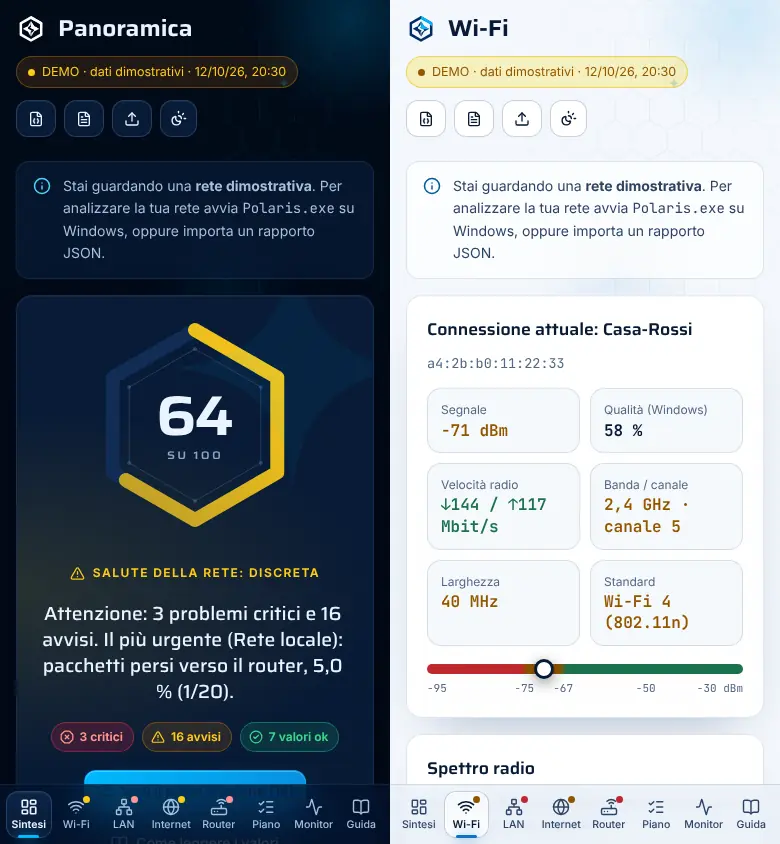
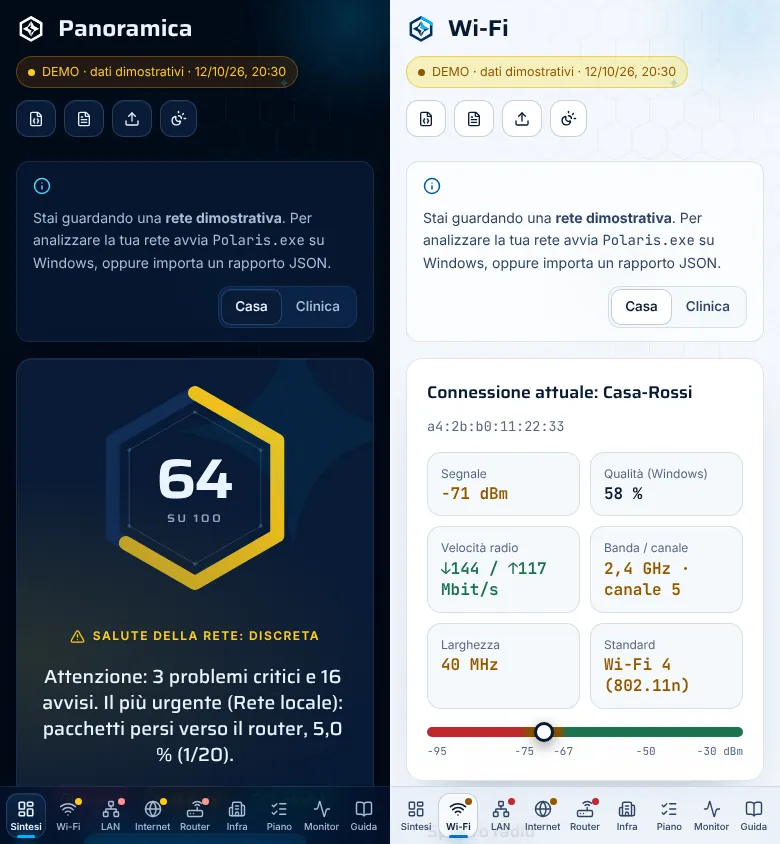
STARNET Polaris 0.4.0: documentazione, verifiche e collaudo delle nuove API
- versione 0.4.0 in package.json, risorse dell'exe e script di build
- README: reti complesse e strutture sanitarie, guide di rete, regole di
  sicurezza di inventario e verifiche; immagini aggiornate e nuove
  (infrastruttura, AP della rete, verifiche, autovalutazione, guide)
- ARCHITETTURA: nuove analisi del motore, file dell'interfaccia, sonde
  dell'agente (roaming, dominio e DHCP, inventario, verifiche) e API
- VERIFICHE: sezione 8 con test, prove dell'interfaccia (aspetto, axe-core,
  percorso interattivo, fluidità), exe sotto Wine nei tre modi con le
  nuove API, difetti corretti e avvertenze sulle guide
- LEGGIMI dello zip: nuove funzioni, tasti 1-9, regole di sicurezza
- CI su Windows reale: suffisso DNS, server DHCP e dominio nel registro;
  inventario senza conferma rifiutato e una sola verifica verso il gateway
  (nessuna scansione della rete della CI)
- AP della rete: il conteggio delle radio esclude quelle con protezione
  diversa, indicate a parte

Claude-Session: https://claude.ai/code/session_01F7rChLFTzHGSKGbwjwYayv

diff --git a/core/src/ui/views.tsx b/core/src/ui/views.tsx
@@ -343,7 +343,10 @@ function OwnApsCard({ nets, me, ssid }: { nets: Bss[]; me?: Bss; ssid: string })
     <m.section variants={rise} className="card" style={{ marginTop: 16 }}>
       <div className="card-head">
         <h2>Access point della rete "{ssid}"</h2>
-        <span className="sub">almeno {aps} AP · {radios.length} radio ricevute da qui</span>
+        <span className="sub">
+          almeno {aps} AP · {radios.filter((b) => !odd(b)).length} radio ricevute da qui
+          {radios.some(odd) ? ` · ${radios.filter(odd).length} con protezione diversa` : ''}
+        </span>
       </div>
       <TableWrap label="Access point della tua rete">
         <table>

diff --git a/docs/VERIFICHE.md b/docs/VERIFICHE.md
@@ -1,23 +1,27 @@
 # Verifiche
 
-Cosa è stato verificato, come, e cosa resta da provare. Versione attuale: 0.3.0 (13 ottobre 2026), con il marchio STARNET e il
-nome STARNET Polaris (sezione 7). Fino alla versione 0.2.0 il programma si chiamava LANterna: le sezioni che descrivono prove
-precedenti riportano i nomi di allora.
+Cosa è stato verificato, come, e cosa resta da provare. Versione attuale: 0.4.0 (17 ottobre 2026), con le guide di rete e gli
+strumenti per le reti complesse e le strutture sanitarie (sezione 8). Fino alla versione 0.2.0 il programma si chiamava LANterna:
+le sezioni che descrivono prove precedenti riportano i nomi di allora.
 
 ## 1. Test automatici
 
 | Parte | Test | Cosa coprono |
 | --- | --- | --- |
 | Motore di analisi (`core/`, vitest) | 41 | conversioni frequenza/canale e spettro; soglie di ogni metrica ai bordi (es. -67/-68/-75/-76 dBm); diagnosi incrociate (latenza in casa o dell'operatore, router che ignora i ping o non risponde affatto ma inoltra il traffico, perdite misurate via TCP, traceroute con nodo lento o percorso parziale, ping bloccati ma web funzionante); sicurezza (aperta, WEP, TKIP, WPA3, PMF, WPS); piano d'azione senza duplicati e con i critici in testa; rapporto testuale; **il bundle `engine.js` gira come script ES2015 senza moduli né Intl** (come in goja) e dà lo stesso risultato |
-| Decoder 802.11 (`windows/internal/ie`) | 16 | beacon costruiti **byte per byte**: RSN (WPA2, WPA3, transizione, OWE, Enterprise, valori impliciti), WPA in modalità mista con TKIP, WEP dal bit Privacy, WPS, BSS Load, Country, HT 40 MHz sopra/sotto, VHT 80/160 (codifica moderna e deprecata), HE 6 GHz con campi opzionali, EHT 320 MHz, elementi troncati |
-| Strutture wlanapi (`windows/internal/wlan`) | 5 | `WLAN_BSS_LIST`, `WLAN_CONNECTION_ATTRIBUTES`, `WLAN_INTERFACE_INFO_LIST` costruite byte per byte: RSSI con segno, frequenza in kHz, velocità in unità da 500 kbit/s, offset IE relativo alla voce e fuori dal buffer, conteggi incoerenti, descrizioni UTF-16 |
+| Reti complesse (`core/test/complex.test.ts`) | 21 | AP della rete (un router dual band non conta due volte), AP propri sullo stesso canale con la soglia di -80 dBm, sticky client e giudizio sul segnale che punta all'AP scelto, roaming (802.1X senza 802.11r, funzioni diverse tra AP, Mobility Domain diversi), AP gemello aperto e varianti della stessa protezione, reti delle stesse radio escluse dai vicini e dal consiglio dei canali; dominio e suffisso DNS (anche suffissi domestici e DNS pubblici), server DHCP, sottorete ampia, MAC condivisi; inventario, segmentazione, servizi critici, autovalutazione con le azioni nel piano; rete dimostrativa Clinica; rapporto con i dettagli entro 90 colonne |
+| Guide (`core/test/guides.test.ts`) | 17 | identificativi e capitoli, collegamenti interni, misure e azioni citate esistenti, **ogni misura spiegata in almeno una guida**, markup chiuso, tabelle coerenti, glossario senza doppioni, argomenti sanitari presenti, ricerca |
+| Decoder 802.11 (`windows/internal/ie`) | 20 | beacon costruiti **byte per byte**: RSN (WPA2, WPA3, transizione, OWE, Enterprise, valori impliciti), WPA in modalità mista con TKIP, WEP dal bit Privacy, WPS, BSS Load, Country, HT 40 MHz sopra/sotto, VHT 80/160 (codifica moderna e deprecata), HE 6 GHz con campi opzionali, EHT 320 MHz, elementi troncati; roaming da Mobility Domain, RM Enabled Capabilities ed Extended Capabilities (anche troncato) e 802.11r dedotto dagli AKM FT |
+| Strutture wlanapi (`windows/internal/wlan`) | 6 | `WLAN_BSS_LIST`, `WLAN_CONNECTION_ATTRIBUTES`, `WLAN_INTERFACE_INFO_LIST` costruite byte per byte: RSSI con segno, frequenza in kHz, velocità in unità da 500 kbit/s, offset IE relativo alla voce e fuori dal buffer, conteggi incoerenti, descrizioni UTF-16 |
 | Parser netsh (`windows/internal/netsh`) | 4 | output inglese e italiano, anche con lettere accentate storpiate dalla code page CP850; messaggio di Windows 11 sul permesso di posizione |
 | Sonde di rete (`windows/internal/probe`) | 12 | proxy di sistema di Windows (proxy unico o per schema, eccezioni `<local>` e con caratteri jolly); pacchetto DNS confrontato byte per byte, server DNS finto (risposta, REFUSED, SERVFAIL, timeout); router UPnP finto completo (SSDP, descrizione XML, SOAP `GetExternalIPAddress`); filtro degli URL SSDP (solo LAN privata); porte; titolo del pannello; HTTPS |
 | Orchestrazione (`windows/internal/collect`) | 8 | analisi completa su piattaforma simulata; traceroute; MTU con ricerca binaria; riserva TCP quando l'ICMP non funziona; interruzione rapida se l'host non risponde; assenza di gateway; PC senza scheda Wi-Fi; scelta del metodo nel monitor |
-| Server locale (`windows/internal/server`) | 4 | rifiuto di Host estranei, POST da altre origini e cross-site; CSP; tipi dei file dell'interfaccia (font `woff2`, favicon `ico`, CSS con `nosniff`); ciclo avvio, avanzamento e risultato; ping del monitor; avvii concorrenti |
+| Server locale (`windows/internal/server`) | 7 | rifiuto di Host estranei, POST da altre origini e cross-site; CSP; tipi dei file dell'interfaccia (font `woff2`, favicon `ico`, CSS con `nosniff`); ciclo avvio, avanzamento e risultato; ping del monitor; avvii concorrenti; inventario (conferma obbligatoria, solo JSON, rete non adatta, già in corso, non disponibile) e verifiche |
+| Infrastruttura (`windows/internal/infra`) | 9 | sottorete da esaminare (/22 intera, ripiego sul /24, reti pubbliche e /31 rifiutate), reti private e MAC casuali, inventario con limite di concorrenza, dispositivi visti solo tramite ARP e nomi, interruzione, verifiche (porta aperta, chiusa o filtrata, ping, nomi risolti preferendo IPv4, destinazioni pubbliche rifiutate), validazione, richiesta e risposta NetBIOS byte per byte |
 | Motore in goja (`windows/internal/engine`) | 3 | il vero `engine.js` eseguito nell'interprete dell'exe: rapporto e analisi, formattazione dei numeri con la virgola |
 
-In totale 41 test TypeScript e 52 test Go, questi ultimi eseguiti anche con il race detector.
+In totale 79 test TypeScript e 69 test Go, questi ultimi eseguiti anche con il race detector. Il conteggio del motore di analisi
+(41) comprende i test di tutte le versioni precedenti.
 
 ## 2. Strutture di Windows confrontate con gli header ufficiali
 
@@ -135,6 +139,9 @@ Difetti trovati con queste prove e corretti prima della consegna:
 | Fluidità con una GPU vera | il container e la CI non hanno GPU | misure in rendering software (caso peggiore) e grafica leggera automatica | animazioni a 60 fps anche aprendo le schede; con desktop remoto deve attivarsi la grafica leggera |
 | Permesso di posizione (Windows 11 24H2+) | serve Windows 11 con scheda Wi-Fi | messaggio di Windows riconosciuto nei test; errore `ACCESS_DENIED` tradotto in istruzioni | con posizione disattivata deve comparire la spiegazione, attivandola le reti |
 | UPnP e porte di un router reale | nessun router domestico nel container | router UPnP simulato nei test | modello del router, porte aperte, IP pubblico |
+| Inventario di una rete privata vera | la rete del container è 192.0.2.0/24, che non è privata; la rete della CI non va scansionata | primitive simulate nei test (ritmo, concorrenza, ARP, nomi); sotto Wine verificato il rifiuto della rete non privata; in CI il rifiuto senza conferma | tempi su una /24, dispositivi visti solo tramite ARP, nomi NetBIOS di PC e stampanti |
+| Roaming 802.11k/v/r da AP veri | nessuna scheda Wi-Fi | elementi costruiti byte per byte secondo lo standard | funzioni e Mobility Domain degli AP di una rete aziendale; segnalazione dello sticky client camminando |
+| Verifiche verso una rete segmentata | nessuna VLAN né firewall interni qui | esiti simulati nei test; sotto Wine verifiche vere (indirizzo pubblico rifiutato, ping senza risposta) | distinzione tra porta chiusa e filtrata attraverso un firewall reale |
 
 ## 6. Collaudo su Windows reale (CI)
 
@@ -239,3 +246,60 @@ stesso viola, e su mobile il marchio spariva insieme alla barra laterale (ora il
   ora la barra scorre e sugli schermi bassi il logo è più compatto.
 
 ![STARNET Polaris su Windows reale](img/windows-reale.webp)
+
+## 8. Versione 0.4.0: guide di rete, reti complesse e strutture sanitarie
+
+**Cosa è nuovo.** La biblioteca di 48 guide con glossario e centro guide (commit `c0c2fb1`); il motore 1.1.0 con le analisi delle
+reti con più access point e delle reti aziendali e la categoria Infrastruttura; nell'agente il pacchetto `infra` (inventario e
+verifiche su richiesta), la lettura del roaming dai beacon, di dominio, suffisso DNS e server DHCP; nell'interfaccia la sezione
+Infrastruttura, gli AP della rete nella sezione Wi-Fi, il monitor di sessione e la rete dimostrativa Clinica (commit `c6d0887`).
+
+**Interfaccia**, prove in Chromium 141 sulla build di produzione, con entrambe le reti dimostrative:
+
+| Verifica | Esito |
+| --- | --- |
+| Aspetto (9 sezioni × 2 temi × desktop e mobile, reti Casa e Clinica) | nessuno scorrimento orizzontale, nessun elemento invisibile o fuori dal riquadro, nessun errore in console |
+| axe-core 4.11.4, WCAG 2.1 A/AA e buone pratiche (36 combinazioni per rete, con una scheda aperta e una risposta data) | 0 violazioni dopo la correzione sotto |
+| Percorso interattivo (25 controlli) | tasto `6`; pulsante dell'inventario disattivo finché non si conferma l'autorizzazione; barra di avanzamento; filtro; CSV con intestazione e BOM; esempi delle destinazioni; campi vuoti segnalati; indirizzo pubblico "non verificato"; risposte da tastiera con le frecce; giudizio e azione nel piano; JSON esportato con inventario, verifiche e autovalutazione; risposte conservate dopo il ricaricamento; monitor che continua cambiando sezione, con il pallino nella navigazione e il CSV; AP della rete nella demo Clinica |
+| Barra in basso su telefono | nove voci con le etichette a 390 px; sotto 370 px solo le icone (il nome resta per i lettori di schermo); nessuno sbordo a 360 e 320 px |
+| Fluidità senza GPU | 60 fps mediani entrando in Infrastruttura, aprendo un'area dell'autovalutazione, rispondendo, durante l'inventario simulato, aggiungendo una destinazione, nel monitor e nella tabella degli AP; p95 di 33 ms solo all'ingresso del monitor |
+
+**Exe 0.4.0 sotto Wine 9.0, nei tre modi:**
+- **rapporto**: analisi in 14,1 s;
+- **server**, nuove API con l'agente vero:
+  - `415` senza corpo JSON, `400` senza conferma, `422` sulla rete del container ("192.0.2.2 non è un indirizzo privato");
+  - `403` con `Origin` o `Host` estranei, `400` con una destinazione vuota;
+  - verifiche in 1,8 s: indirizzo pubblico e `localhost` non verificati, ping senza risposta "isolato come previsto";
+- **interfaccia servita dall'exe** (Chromium):
+  - il rifiuto della rete non privata compare come avviso;
+  - le verifiche danno gli esiti veri e i giudizi;
+  - il monitor misura con ping veri, senza l'avviso della demo;
+  - in console resta solo la riga del browser sulla risposta `422`, attesa;
+- **finestra senza WebView2**: messaggio con l'indirizzo dell'interfaccia su una porta libera, chiusura con OK.
+
+**Windows reale (CI).** Il commit `c6d0887` ha superato test, build e collaudo su Windows reale. Al collaudo si aggiunge un
+controllo prudente delle nuove API: un inventario senza conferma deve essere rifiutato (nessuna scansione della rete della CI) e
+una sola verifica verso il gateway deve dare un esito.
+
+**Difetti trovati e corretti durante il lavoro:**
+1. Un router dual band rischiava di contare come due AP: il conteggio ora è per banda.
+2. Le reti ospiti e dispositivi trasmesse dallo stesso AP risultavano "reti vicine" sul proprio canale e falsavano il consiglio
+   dei canali.
+3. Una radio estranea con il nome della rete entrava nel conteggio degli AP e nelle coppie sullo stesso canale.
+4. Con più AP i canali da 40 MHz, scelta corretta, erano segnalati come limite di velocità.
+5. Con lo sticky client il giudizio sul segnale suggeriva di avvicinarsi al router invece di correggere il roaming.
+6. Una rete WPA2-Enterprise era descritta come protetta "da una password lunga".
+7. La tabella ARP scartava gli indirizzi che finiscono in .255, validi nelle sottoreti /22 e /23.
+8. Lo stato salvato nel browser non seguiva il cambio di chiave: passando da una rete dimostrativa all'altra restavano le
+   risposte della prima.
+9. Un elenco vuoto delle destinazioni aveva il ruolo di elenco senza voci (axe-core).
+10. Testi: "1 sono stati visti", parentesi doppie nelle destinazioni, puntini seguiti dal punto.
+
+**Avvertenze.** Le guide e le domande dell'autovalutazione sono state scritte senza consultare le fonti primarie durante questo
+lavoro: articoli, termini di notifica e riferimenti normativi (GDPR, NIS2, dispositivi medicali) sono una sintesi da verificare sui
+testi ufficiali e non costituiscono consulenza legale. Inventario, verifiche e lettura del roaming sono collaudati con dati simulati
+e sotto Wine, non ancora su una rete aziendale vera (sezione 5).
+
+| AP della rete | Esiti delle verifiche | Autovalutazione |
+| --- | --- | --- |
+| ![AP della rete](img/ap-rete.webp) | ![Verifiche](img/verifiche.webp) | ![Autovalutazione](img/autovalutazione.webp) |

diff --git a/docs/ARCHITETTURA.md b/docs/ARCHITETTURA.md
@@ -9,10 +9,13 @@ nome, che non compare più all'utente.
             │    types.ts       contratto dati Scan → Analysis                            │
             │    kb/metrics.ts  cos'è, come si legge (soglie), perché conta, limiti      │
             │    kb/actions.ts  catalogo azioni correttive condiviso                      │
+            │    kb/assessment.ts  autovalutazione: aree, domande, punteggi               │
             │    analyze.ts     diagnosi, punteggi, piano d'azione                        │
-            │    wifi.ts        canali, spettro, interferenza, canale consigliato         │
+            │    wifi.ts        canali, spettro, interferenza, AP della rete              │
             │    report.ts      rapporto testuale                                         │
-            │  ui/       interfaccia React (animazioni, grafici SVG, 8 viste)             │
+            │  guides/   48 guide come dati tipizzati, glossario, ricerca                 │
+            │  demo/     reti dimostrative Casa e Clinica, simulazioni                    │
+            │  ui/       interfaccia React (animazioni, grafici SVG, 9 viste)             │
             └───────────────▲───────────────────────────────▲────────────────────────────┘
                             │ stesso bundle                  │ engine.js (IIFE ES2015)
              interfaccia    │                                │
@@ -25,6 +28,7 @@ nome, che non compare più all'utente.
    │   winapi/  wlanapi, IcmpSendEcho, GetAdaptersAddresses, ARP, firewall   │
    │   wlan/ ie/ netsh/  interpretazione byte per byte, collaudata ovunque   │
    │   probe/   DNS, UPnP/SSDP, porte e pannello del router, HTTPS          │
+   │   infra/   inventario e verifiche su richiesta, ritmo prudente          │
    │   collect/ orchestrazione parallela con avanzamento reale               │
    │   server/  API locale + interfaccia incorporata                         │
    └──────────────────────────────────────────────────────────────────────────┘
@@ -56,7 +60,19 @@ motore lo mostra come "non misurato" invece di inventare un giudizio.
   ordina per gravità, impatto, numero di problemi risolti e facilità.
 - Il consiglio sui canali stima l'interferenza dallo spettro occupato da ogni rete, pesato per potenza e per il carico dichiarato
   (BSS Load). A 2,4 GHz consiglia solo 1, 6 o 11; a 5 GHz preferisce 36-48, poi i blocchi DFS, per ultimo 149-161 (in Italia/UE
-  ammesso solo a bassa potenza).
+  ammesso solo a bassa potenza). Le altre reti trasmesse dalle stesse radio (ospiti, dispositivi: BSSID che differiscono solo
+  nell'ultima cifra o nel primo ottetto) non contano come interferenza.
+- **Reti con più access point.** Gli AP della rete collegata si stimano contando le radio per banda (un router dual band conta
+  uno); le radio con una protezione di famiglia diversa non sono AP della rete ma un possibile AP gemello, segnalato a parte. Il
+  motore controlla AP propri sullo stesso canale che si ricevono entrambi sopra -80 dBm, il PC agganciato a un AP debole quando
+  uno della stessa banda è più forte di almeno 10 dB (il giudizio sul segnale allora punta all'AP scelto, non alla copertura) e
+  il roaming assistito (802.11k/v/r, uniformità tra AP, Mobility Domain).
+- **Reti aziendali.** Un dominio (o un suffisso DNS non domestico con soli DNS interni) cambia i consigli: niente DNS pubblici sul
+  PC, ma il DNS interno da potenziare. Sottoreti da /20 in su sono indicate come probabile rete piatta; lo stesso MAC per più
+  indirizzi è un avviso se riguarda il router.
+- **Infrastruttura.** Inventario, verifiche e autovalutazione entrano nello `Scan` (`infra`) e diventano giudizi di una categoria
+  propria, che conta nel punteggio solo quando ci sono dati: segmentazione violata e servizi critici irraggiungibili sono critici;
+  ogni area dell'autovalutazione ha un punteggio pesato e porta nel piano le azioni mancanti.
 
 ## Interfaccia
 
@@ -93,9 +109,19 @@ Organizzazione di `core/src/ui/`:
   reale di `/api/progress`; ogni sonda è una stella in orbita che, finita, si collega alla precedente formando una costellazione.
 - `charts.tsx`: grafici SVG disegnati alla larghezza reale del contenitore (1 unità = 1 pixel, testi mai deformati), curve monotone
   che non inventano picchi; il monitor scorre in modo continuo invece che a scatti.
+- `guides.tsx` e `diagrams.tsx`: il centro guide (biblioteca, lettore con indice, glossario, riferimento delle soglie, ricerca) e i
+  diagrammi SVG animati all'ingresso nella vista, fermi con "riduci movimento".
+- `infra.tsx`: la sezione Infrastruttura. L'inventario vive a livello di modulo, quindi prosegue anche cambiando pagina; senza
+  agente (demo) inventario e verifiche sono simulati da `demo/simulate.ts` e dichiarati come tali; con un rapporto importato si
+  consultano solo i risultati salvati.
+- `monitor.ts`: la sessione del monitor appartiene all'App e continua fra le sezioni; riepilogo dell'intera sessione (media, 95°
+  percentile, massimo con l'ora, perdite, interruzioni di almeno tre ping consecutivi, picchi oltre 2,5 volte il valore tipico) e
+  CSV per i fogli di calcolo italiani (`;` e virgola decimale).
+- Autovalutazione e destinazioni delle verifiche restano in `localStorage`, separate per contesto (rete, demo); l'App le unisce
+  allo `Scan` prima dell'analisi e delle esportazioni. Il MAC del router di ogni rete è ricordato per segnalare un cambio.
 
-Accessibilità: navigazione completa da tastiera (scorciatoie `1`…`8` e `/`, ignorate mentre si scrive; frecce nei selettori a
-segmenti; collegamento "Vai al contenuto"), ruoli e stati ARIA su schede espandibili, interruttori e caselle, tabelle scorrevoli
+Accessibilità: navigazione completa da tastiera (scorciatoie `1`…`9` e `/`, ignorate mentre si scrive; frecce nei selettori a
+segmenti e nei gruppi di risposte; collegamento "Vai al contenuto"), ruoli e stati ARIA su schede espandibili, interruttori e caselle, tabelle scorrevoli
 raggiungibili con Tab, contrasto WCAG 2.1 AA in entrambi i temi, `prefers-reduced-motion` e `prefers-reduced-transparency`
 rispettati. Le scelte sono state verificate con axe-core: [VERIFICHE.md](VERIFICHE.md).
 
@@ -111,6 +137,10 @@ rispettati. Le scelte sono state verificate con axe-core: [VERIFICHE.md](VERIFIC
 | DNS | richieste UDP costruite a mano, mediana su 5 nomi | NXDOMAIN conta come risposta |
 | UPnP | SSDP + descrizione XML + `GetExternalIPAddress` | si contattano solo URL http della LAN privata |
 | Router | connessione TCP alle porte di gestione comuni del **solo gateway**; intestazione e titolo del pannello | nessuna autenticazione |
+| Roaming | IE 54 (Mobility Domain e FT su DS), 70 (RM Enabled Capabilities, Neighbor Report) e 127 (Extended Capabilities, BSS Transition); AKM FT | per ogni rete visibile, dagli stessi beacon |
+| Dominio e DHCP | `GetComputerNameExW(ComputerNameDnsDomain)`; suffisso DNS e `Dhcpv4Server` da `GetAdaptersAddresses` | il server DHCP solo se la struttura restituita lo contiene |
+| Inventario (su richiesta) | `IcmpSendEcho` a ogni indirizzo della sottorete (circa 30 al secondo, 8 in parallelo), poi `GetIpNetTable`, DNS inverso e richiesta NetBIOS *node status* (UDP 137) ai soli dispositivi trovati | solo reti private; oltre /22 solo il blocco /24 del PC; interruzione dopo 4 minuti |
+| Verifiche (su richiesta) | connessione TCP alla porta indicata (aperta, chiusa con rifiuto, filtrata) o due ping; nomi risolti prima, preferendo IPv4 | solo destinazioni private, al massimo 64, 4 alla volta |
 
 Modalità del programma: `Polaris.exe` (finestra), `report`, `serve`. La finestra usa WebView2; se il runtime manca (o non
 funziona) STARNET Polaris lo dice con un messaggio e apre l'interfaccia nel browser predefinito. `Polaris.exe` è compilato come
@@ -126,9 +156,15 @@ per la console, comoda negli script.
 | `POST /api/scan` | `202` avvia un'analisi, `409` se è già in corso |
 | `GET /api/progress` | fasi dell'analisi con stato reale (`pending`, `running`, `done`, `error`) |
 | `GET /api/ping?target=gateway\|internet` | un singolo tempo di risposta per il monitor; usa la riserva TCP se nell'analisi l'host rispondeva solo così |
+| `POST /api/inventory` | corpo `{"authorized": true}`: `202` avvia l'inventario della sottorete del PC; `400` senza conferma, `415` senza JSON, `422` se la rete non è privata o non ha altri indirizzi, `409` se è già in corso |
+| `GET /api/inventory` | avanzamento (`ping`, poi `nomi`), eventuale errore e ultimo inventario |
+| `POST /api/reach` | corpo `{"targets": [{"label", "host", "port", "expect": "reachable"\|"isolated"}]}`: esiti delle verifiche (sincrono, al massimo 2 minuti); `400` se le destinazioni non sono valide, `409` se ne è già in corso una |
+| `GET /api/reach` | ultime verifiche, oppure `204` |
 
 Sicurezza: ascolto solo su `127.0.0.1`; richieste con `Host` diverso da localhost rifiutate (DNS rebinding); `POST` con `Origin`
-estranea o `Sec-Fetch-Site: cross-site` rifiutate (CSRF); CSP restrittiva sull'interfaccia; nessuna intestazione CORS. ESP32 ed
+estranea o `Sec-Fetch-Site: cross-site` rifiutate (CSRF); i `POST` di inventario e verifiche accettano solo corpi
+`application/json` fino a 64 kB, che una pagina di un altro sito non può inviare senza un preflight CORS; CSP restrittiva
+sull'interfaccia; nessuna intestazione CORS. ESP32 ed
 eventuali altri agenti esporranno la stessa API, quindi l'interfaccia non cambia.
 
 ## Scelte e alternative scartate

diff --git a/README.md b/README.md
@@ -7,9 +7,14 @@
 
 # STARNET Polaris
 
-**La stella polare della tua rete.** Diagnostica della rete di casa che **spiega ogni valore**: per ciascuna misura dice cos'è,
-come si legge, quanto è grave nella tua rete e cosa fare per migliorarla. Le azioni correttive confluiscono in un piano unico,
-ordinato per gravità, impatto e facilità.
+**La stella polare della tua rete.** Diagnostica di rete che **spiega ogni valore**: per ciascuna misura dice cos'è, come si
+legge, quanto è grave nella tua rete e cosa fare per migliorarla. Le azioni correttive confluiscono in un piano unico, ordinato
+per gravità, impatto e facilità.
+
+Funziona in casa come in uno studio, in un'azienda o in una **struttura sanitaria**: riconosce le reti con più access point e
+con dominio, censisce la sottorete, verifica la separazione tra le zone e i servizi critici e guida un'autovalutazione delle
+misure organizzative. Una biblioteca di **48 guide** in italiano spiega tutto ciò che riguarda la rete, dalle basi alle reti
+cliniche.
 
 Il nome nasce dal marchio STARNET: Polaris è la stella polare, quella che indica la direzione. Qui indica cosa sistemare per primo.
 
@@ -35,7 +40,8 @@ Il movimento riprende il marchio:
 
 Se in Windows le animazioni sono disattivate restano solo brevi dissolvenze: niente spostamenti, rotazioni o scorrimenti.
 
-- **Tastiera**: `1`…`8` per le sezioni, `/` per cercare nella guida, frecce nei selettori; ogni comando è raggiungibile con Tab.
+- **Tastiera**: `1`…`9` per le sezioni, `/` per cercare nella guida, frecce nei selettori e nelle risposte dell'autovalutazione;
+  ogni comando è raggiungibile con Tab.
 - **Grafica leggera**: senza accelerazione grafica (macchine virtuali, desktop remoto) Polaris se ne accorge dai fotogrammi lenti e
   toglie sfocature e trasparenze; si può anche attivare a mano in fondo alla barra laterale.
 - Contrasto conforme a WCAG 2.1 AA in entrambi i temi; la gravità è sempre indicata da icona e testo, non solo dal colore.
@@ -48,11 +54,51 @@ Se in Windows le animazioni sono disattivate restano solo brevi dissolvenze: nie
 
 | Area | Misure |
 | --- | --- |
-| Wi-Fi | potenza in dBm, qualità, velocità radio, banda, standard (Wi-Fi 4…7), larghezza di canale, reti sullo stesso canale, canali 2,4 GHz sovrapposti, carico dichiarato dall'access point (BSS Load), sicurezza (WPA2/WPA3, TKIP, PMF, WPS), canale consigliato per 2,4 e 5 GHz |
-| Rete locale | indirizzo e DHCP (APIPA), gateway, latenza/perdite/jitter verso il router, velocità della porta Ethernet, IPv6, dispositivi visti di recente |
+| Wi-Fi | potenza in dBm, qualità, velocità radio, banda, standard (Wi-Fi 4…7), larghezza di canale, reti sullo stesso canale, canali 2,4 GHz sovrapposti, carico dichiarato dall'access point (BSS Load), sicurezza (WPA2/WPA3 Personal ed Enterprise, TKIP, PMF, WPS), canale consigliato per 2,4 e 5 GHz |
+| Reti con più access point | AP della rete con canali, segnale, carico e roaming assistito (802.11k, 802.11v, 802.11r e Mobility Domain), AP propri sullo stesso canale, PC agganciato a un AP lontano (sticky client), stessa rete annunciata con protezioni diverse (possibile AP gemello) |
+| Rete locale | indirizzo, DHCP e server DHCP (APIPA), gateway, latenza/perdite/jitter verso il router, velocità della porta Ethernet, IPv6, sottoreti molto ampie, dominio e DNS aziendali, stesso MAC per più indirizzi, MAC del router cambiato rispetto all'analisi precedente, dispositivi visti di recente |
 | Internet | latenza, perdite e jitter verso Cloudflare, Google e Quad9, traceroute, MTU del percorso, navigazione HTTPS reale |
 | DNS | tempo di risposta del DNS in uso e confronto con i resolver pubblici |
 | Router e sicurezza | servizi esposti dal *proprio* router (Telnet, FTP, SMB…), UPnP IGD e indirizzo pubblico, pannello di gestione HTTP/HTTPS, profili del firewall di Windows |
+| Infrastruttura (su richiesta) | inventario della sottorete, test di segmentazione tra le zone, raggiungibilità e tempi dei servizi critici, autovalutazione organizzativa in sei aree |
+| Monitor | un ping al secondo verso router e Internet per tutta la sessione (fino a 12 ore, anche cambiando sezione), con picchi, interruzioni e relativa ora; esportazione CSV |
+
+## Reti complesse e strutture sanitarie
+
+![Infrastruttura](docs/img/infrastruttura.webp)
+
+La sezione **Infrastruttura** raccoglie gli strumenti per le reti con più zone. Contattano altri dispositivi, quindi seguono
+regole precise: partono **solo su richiesta**, l'inventario chiede la conferma di essere autorizzati (con l'attività concordata
+con l'ingegneria clinica dove ci sono dispositivi medicali), si rivolgono **solo a indirizzi privati**, con un **ritmo prudente**
+e **senza scansioni di porte**.
+
+- **Inventario della sottorete**: un ping a ogni indirizzo (circa 30 al secondo, 8 alla volta), poi la tabella ARP, che rivela
+  anche i dispositivi che ignorano il ping, e i nomi da DNS inverso e NetBIOS. Elenco filtrabile ed esportabile in CSV; segnala i
+  dispositivi senza nome, i MAC casuali e la sottorete quasi piena. Oltre /22 si esamina solo il blocco /24 del PC.
+- **Test di segmentazione e servizi critici**: si indicano le destinazioni che da questa zona devono rispondere (cartella
+  clinica, PACS, HL7, DNS, controller di dominio…) e quelle che devono restare isolate (dispositivi medicali, gestione degli
+  apparati, telecamere, ospiti). Per ognuna una connessione TCP alla porta indicata o due ping; le destinazioni si ricordano per
+  rete. Una risposta da una zona che doveva essere isolata è un problema critico.
+- **Autovalutazione**: 28 domande su segmentazione, dispositivi medicali, accessi e fornitori, backup, continuità e gestione
+  degli incidenti. Le risposte restano sul PC ed entrano nel rapporto; ogni lacuna aggiunge al piano l'azione corrispondente. È
+  una dichiarazione, non una verifica, e non sostituisce un audit.
+
+Nelle reti con dominio Polaris non suggerisce di cambiare DNS sul PC (romperebbe i nomi interni) ma di potenziare il DNS interno.
+Senza agente, le due reti dimostrative (*Casa* e *Clinica*) mostrano tutte le funzioni con dati e simulazioni dichiarati come tali.
+
+| AP della rete (demo Clinica) | Esiti delle verifiche | Autovalutazione (tema chiaro) |
+| --- | --- | --- |
+| ![AP della rete](docs/img/ap-rete.webp) | ![Verifiche](docs/img/verifiche.webp) | ![Autovalutazione](docs/img/autovalutazione.webp) |
+
+## Guide di rete
+
+![Guide](docs/img/guide.webp)
+
+48 guide in sette capitoli (fondamenti, Wi-Fi, rete cablata, servizi, sicurezza, reti complesse e sanità, diagnosi), un glossario
+di 152 voci e la ricerca unificata su guide, glossario, misure e azioni. Ogni valore misurato e ogni azione del piano rimandano
+alla guida che li spiega; sette diagrammi animati illustrano livelli, sottoreti, DHCP, canali, roaming, VLAN e zone di una rete
+sanitaria. I riferimenti normativi citati (GDPR, NIS2, dispositivi medicali) sono una sintesi da verificare sui testi ufficiali,
+non una consulenza legale.
 
 ## Piattaforme
 
@@ -92,7 +138,8 @@ cd ../windows && go test ./...       # agente Windows (gira anche su Linux)
 cd .. && scripts/build-windows.sh    # build/STARNET-Polaris/ e build/STARNET-Polaris-windows-amd64.zip
 ```
 
-`npm run dev` usa i dati dimostrativi; con `polaris-cli serve` avviato, il server di sviluppo inoltra `/api` all'agente vero.
+`npm run dev` usa i dati dimostrativi (la rete *Casa*; dal selettore nell'avviso si passa a *Clinica*); con `polaris-cli serve`
+avviato, il server di sviluppo inoltra `/api` all'agente vero.
 
 Fino alla versione 0.2.0 il programma si chiamava LANterna: il repository e il modulo Go conservano quel nome interno.
 I master del marchio sono in `brand/`; `node scripts/brand.mjs` rigenera i tracciati usati dall'interfaccia.
@@ -107,6 +154,9 @@ PC con scheda Wi-Fi: [docs/VERIFICHE.md](docs/VERIFICHE.md).
 - Tutto resta sul PC: nessun dato viene inviato a servizi esterni.
 - Il server locale ascolta solo su `127.0.0.1`, rifiuta host diversi (DNS rebinding) e richieste da altre origini.
 - Il controllo dei servizi esposti riguarda **esclusivamente il gateway** della rete a cui si è collegati, senza autenticarsi.
+- Inventario e verifiche partono solo su richiesta, solo verso indirizzi privati (RFC 1918 e ULA IPv6) e senza scansioni di
+  porte: l'inventario contatta i dispositivi della sola sottorete del PC, le verifiche solo le destinazioni indicate
+  dall'utente. Le API locali rifiutano richieste senza conferma, con destinazioni non valide o pubbliche.
 - Per le misure vengono contattati: il router, i resolver pubblici 1.1.1.1, 8.8.8.8 e 9.9.9.9, `www.google.com/generate_204` e
   `cp.cloudflare.com/generate_204`.
 
